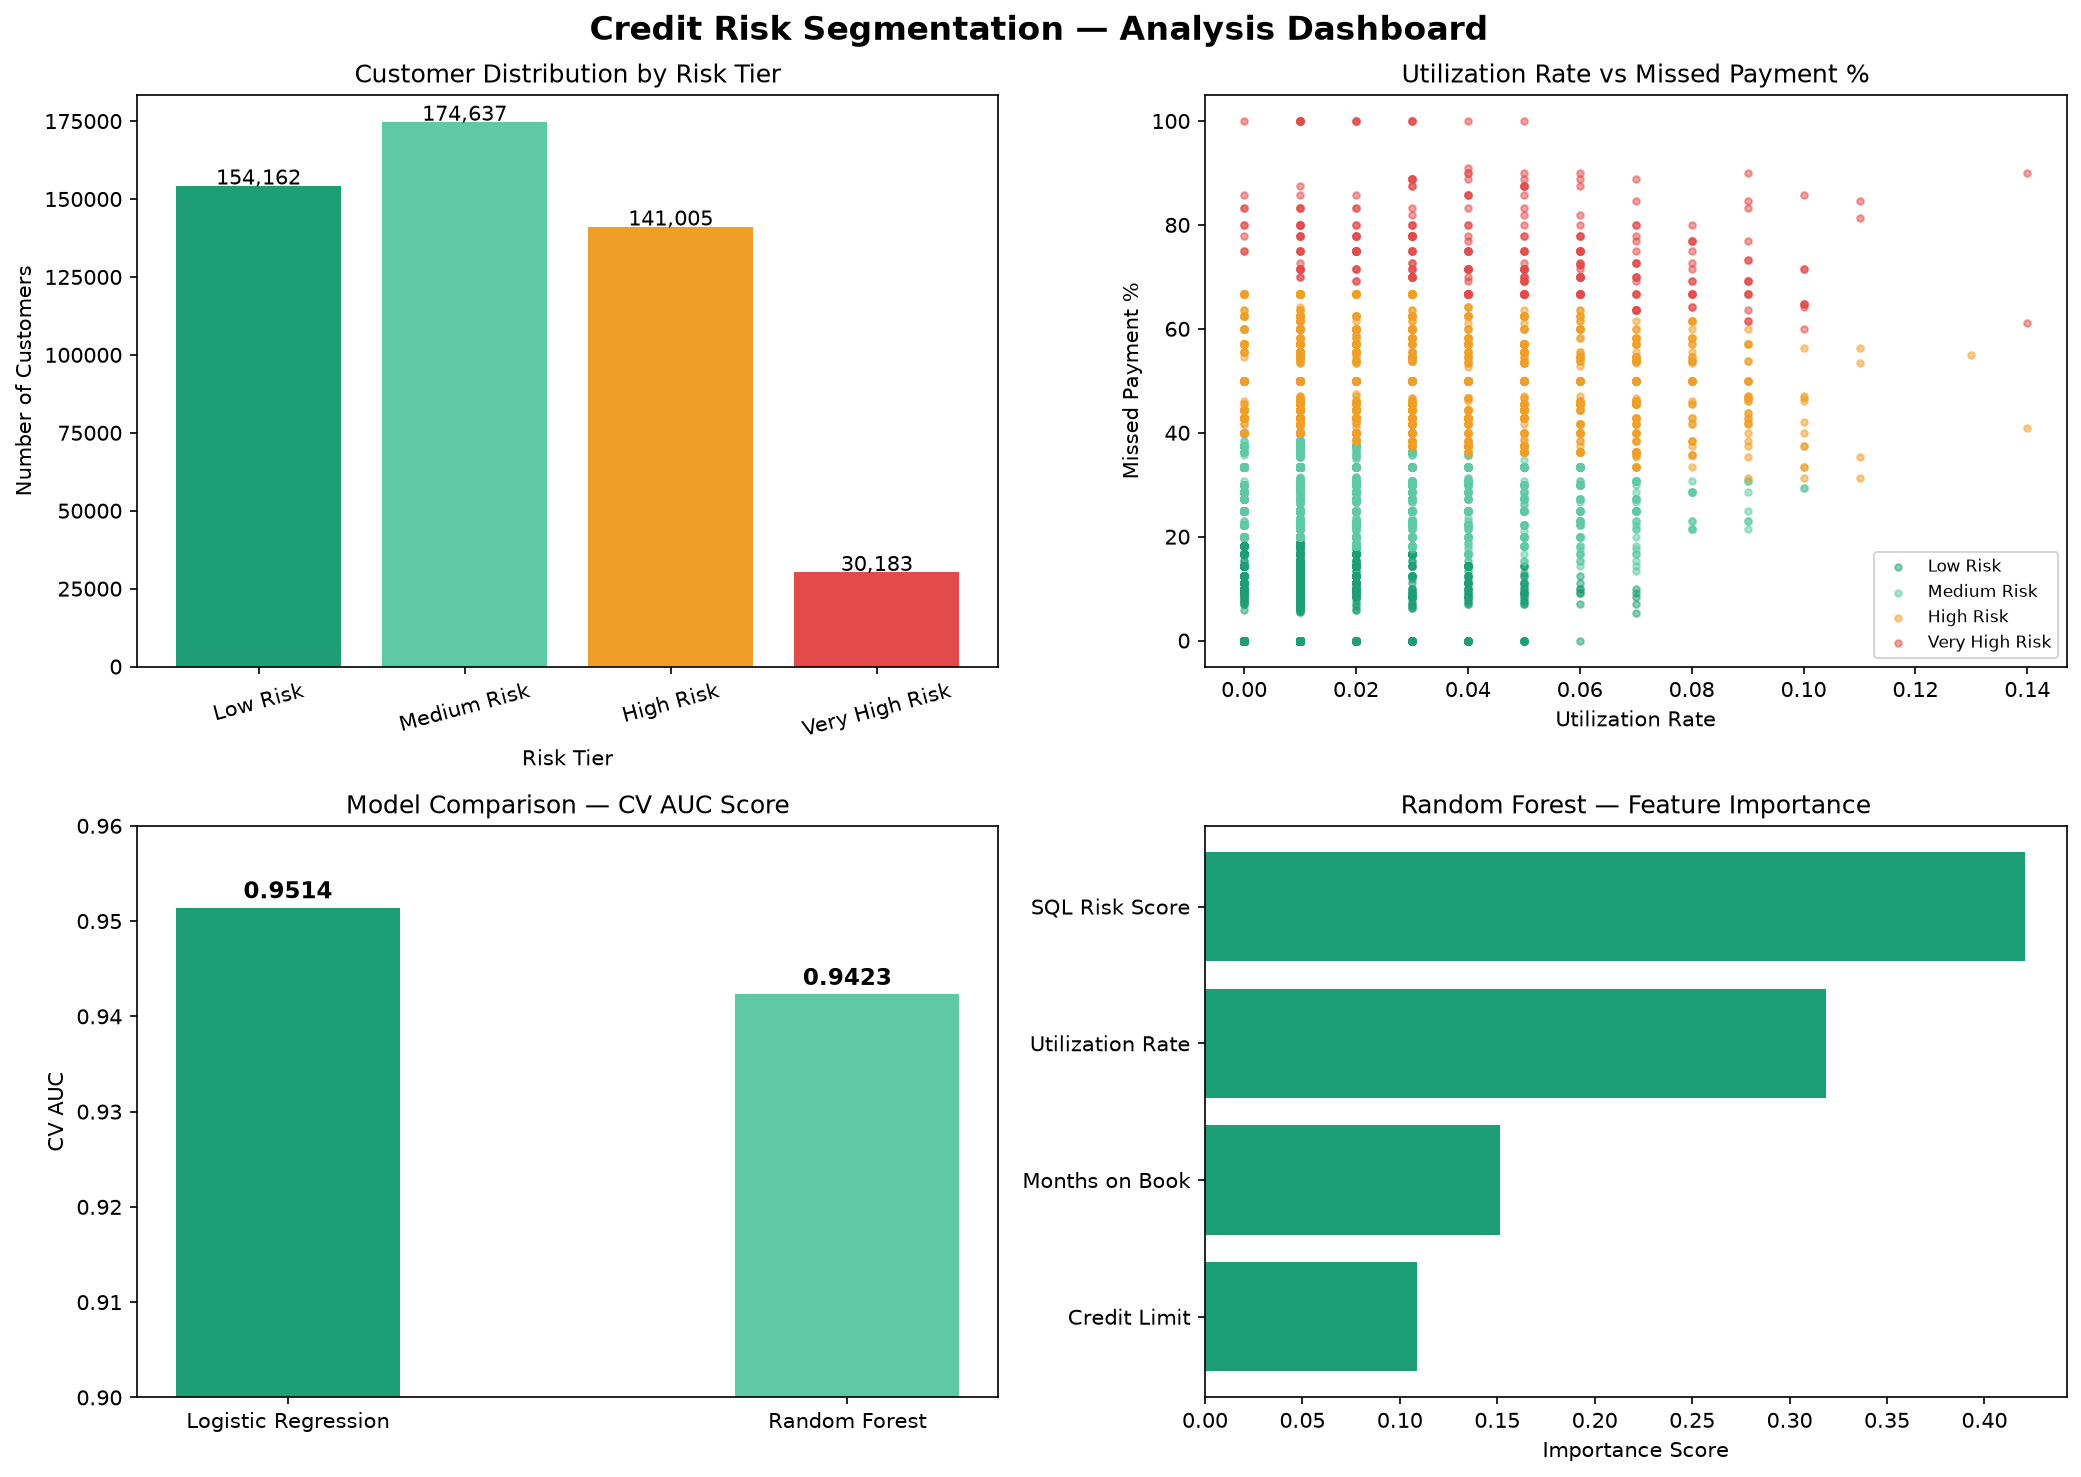
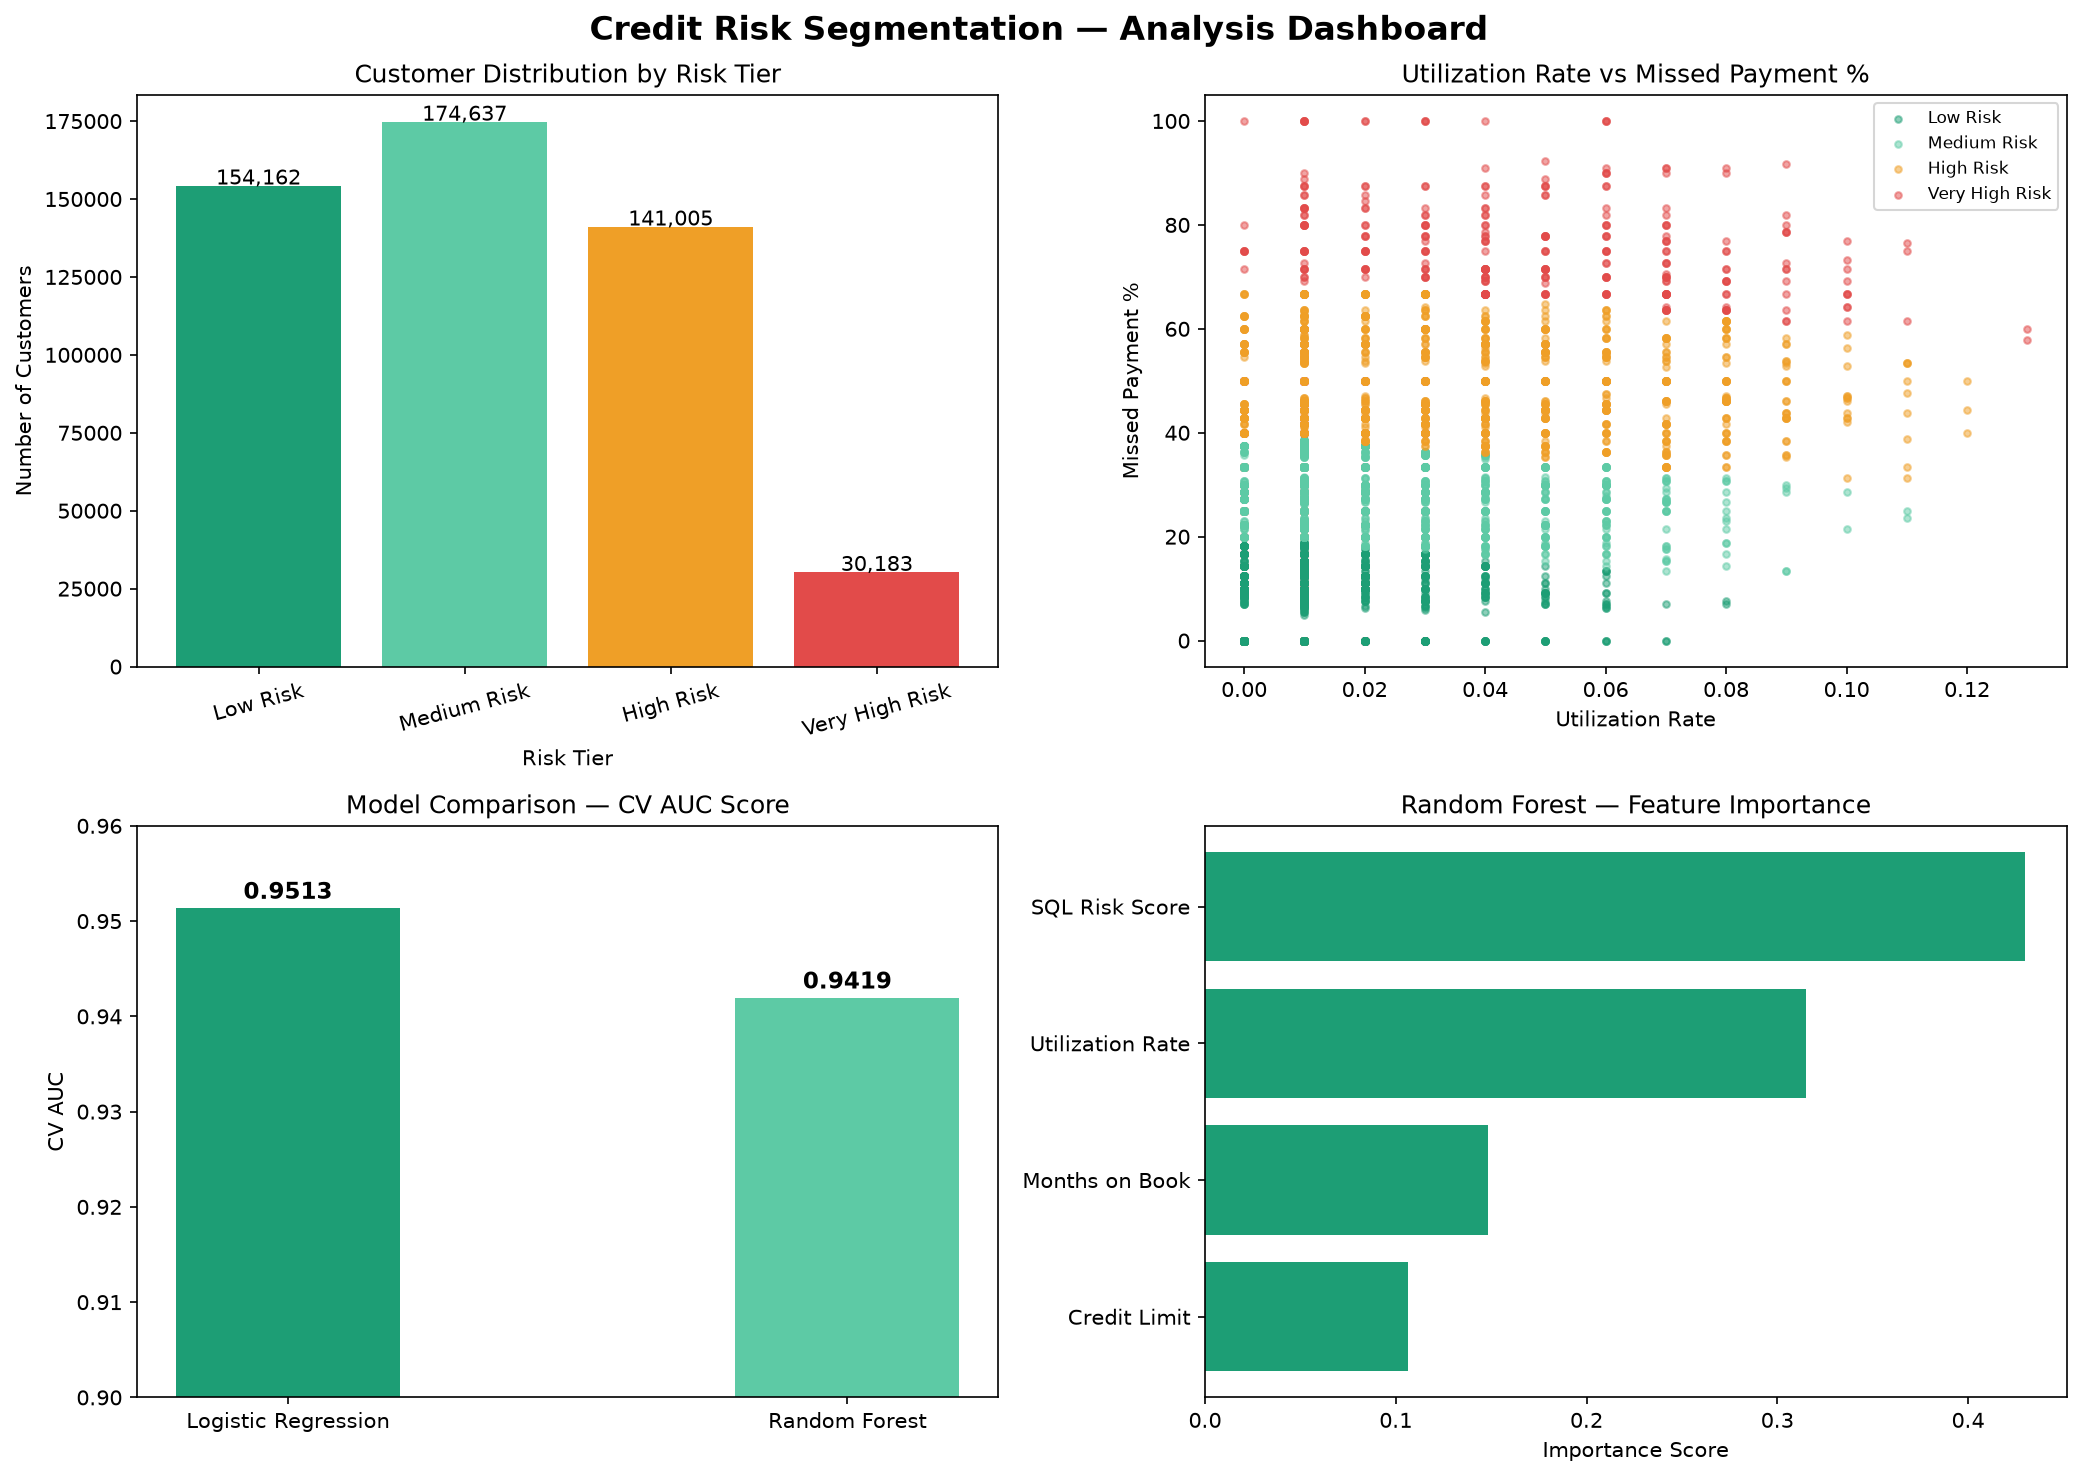
Fix dashboard to use live CV scores and fitted model instead of hardcoded values

diff --git a/README.md b/README.md
@@ -1,0 +1,44 @@
+# Credit Risk Segmentation
+
+## Overview
+
+This project builds a two-stage credit risk scoring pipeline on a synthetic dataset of 500,000 customers and 5,000,000 transactions.
+
+- **Stage 1 (SQL scorecard):** DuckDB aggregates the transaction data to the customer level and computes two behavioral signals — utilization rate (average monthly spend relative to credit limit, capped at 100%) and missed payment percentage. These are combined into a `raw_risk_score` and used to sort customers into four risk tiers: Low, Medium, High, and Very High Risk.
+- **Stage 2 (machine learning):** Logistic Regression and Random Forest models are trained on the SQL-derived features (utilization rate, months on book, credit limit, raw risk score) to see whether they can improve on the rules-based scorecard. `missed_pct` is deliberately excluded from the model features to avoid data leakage, since it is derived from the same process that defines the target.
+
+The final output combines the SQL risk tier and the model's predicted probability into a per-customer decision: Approve, Review, or Decline.
+
+## Key results
+
+- 5-fold cross-validation AUC: **Logistic Regression ~0.951**, **Random Forest ~0.942**.
+- Logistic Regression slightly outperforms Random Forest, suggesting the relationships between the behavioral features and risk are largely linear.
+- Decision thresholds on the Logistic Regression probability: below 0.3 → Approve, 0.3–0.6 → Review, 0.6 and above → Decline. On the last full run this produced roughly 364K Approve, 94K Decline, and 42K Review out of 500,000 customers.
+- In the Random Forest, the SQL-derived `raw_risk_score` was the strongest feature, followed by utilization rate, months on book, and credit limit — indicating the rules-based scorecard already captures a meaningful share of the signal.
+
+## Tech stack
+
+- Python 3.11
+- pandas, numpy — data generation and manipulation
+- duckdb — SQL aggregation over the transaction data
+- scikit-learn — Logistic Regression, Random Forest, cross-validation, pipelines
+- matplotlib, seaborn — dashboard charts
+- uv — dependency installation into the project's virtual environment
+
+## How to run
+
+1. Activate the project's virtual environment (`.venv`).
+2. Install dependencies:
+   ```
+   uv pip install -r requirements.txt
+   ```
+3. Open `credit-risk-segmentation-duckdb.ipynb` in Jupyter or VS Code.
+4. Run all cells in order, top to bottom. The notebook generates the synthetic data, runs the DuckDB scorecard, trains and evaluates the models, and saves a dashboard image (`credit_risk_dashboard.png`) to the project directory.
+
+## Optimizations applied
+
+The notebook originally contained a few performance and maintainability issues, documented in detail in `NOTES.md`. The following fixes have been applied:
+
+- **`credit_limit` generation:** replaced a Python loop that called `np.random.choice` once per customer (500,000 calls) with a vectorized version that splits customers into two risk groups and draws credit limits for each group in a single batched call.
+- **`customer_risks` lookup:** replaced a dictionary built from 500,000 customers and looked up in a Python loop over 5,000,000 transactions with direct numpy array indexing, since `customer_id` runs consecutively from 1 to n.
+- **Redundant model training:** each model (Logistic Regression, Random Forest) was previously being fit from scratch up to three times — once implicitly during cross-validation, once again for the feature-importance chart, and once more for the final predictions. Each model is now fit once and the fitted pipeline is reused everywhere it's needed. This also removed a duplicated `features` list that had been defined separately in two cells.

diff --git a/NOTES.md b/NOTES.md
@@ -77,44 +77,3 @@ This isn't a speed problem, just a small maintenance risk — if someone updates
 
 **What the best fix would be:**
 Define `features` once, near the top of the notebook, and reuse that same variable everywhere instead of retyping the list a second time.
-
----
-
-## Interview talking points
-
-### `credit_limit` column: loops vs. vectorization
-
-**What the issue is:**
-This is a classic "loop instead of vectorized operation" performance problem — a very common thing interviewers ask about when they want to see if someone understands why numpy/pandas code is fast.
-
-**Why it matters / why it happened:**
-Plain Python loops are slow because each iteration has interpreter overhead — Python has to figure out types, manage memory, and do bookkeeping every single time through the loop. Numpy avoids this by doing the same operation on an entire array at once, in fast compiled C code, only paying that overhead once instead of 500,000 times. The for-loop version here happened because the logic needed an if/else condition per row, which is easy to write as a loop but harder to immediately see how to vectorize.
-
-**What the best fix would be:**
-Explain that instead of looping, you can split the data into groups based on the condition (e.g., risk > 0.4 vs. not) and apply the vectorized operation to each whole group at once. This is a good story to tell in an interview: it shows you can spot a performance bottleneck, explain in plain terms why it's slow (Python loop overhead vs. compiled batch operations), and describe a concrete fix rather than just saying "vectorize it."
-
----
-
-### `customer_risks` mapping: dictionary lookup in a loop vs. array indexing
-
-**What the issue is:**
-This is the same category of problem as the `credit_limit` loop, but scaled up — a plain Python loop with a dictionary lookup running 5,000,000 times instead of 500,000. It's a great example to bring up because it shows the cost isn't just "loops are slow," it's "loops get proportionally worse the bigger your data gets."
-
-**Why it matters:**
-A dictionary lookup inside a Python loop has to hash the key, look it up, and hand back a Python object every single time — none of that happens in bulk, unlike a numpy array operation. When the ID values are just consecutive integers, that whole lookup step is unnecessary, because the position in the array already encodes the identity you're looking up.
-
-**What the best fix would be:**
-Talk through recognizing when a lookup can be replaced with direct indexing — here, `customer_id` running from 1 to n means `values[cust_ids - 1]` gives the exact same answer as the dictionary, with no loop and no hashing at all. It's a good example of the broader interview point: before optimizing a loop, first ask if the loop is even necessary.
-
----
-
-### Re-fitting the same model multiple times
-
-**What the issue is:**
-The notebook fits fresh Random Forest and Logistic Regression models more than once — once inside cross-validation, and again later just to get feature importances or final predictions — instead of reusing a trained model.
-
-**Why it matters:**
-This is a good talking point about being efficient with expensive operations, not just efficient with loops: training a model is one of the more computationally costly steps in any ML pipeline, so doing it redundantly is a bigger waste than most inefficient one-liners elsewhere in the code. It also shows you think about maintainability — duplicated training code can quietly drift out of sync if only one copy gets updated.
-
-**What the best fix would be:**
-Mention `cross_validate(..., return_estimator=True)` as the built-in scikit-learn way to keep trained models from cross-validation, or simply structuring the notebook so each model is trained once and its fitted object is reused wherever it's needed downstream.